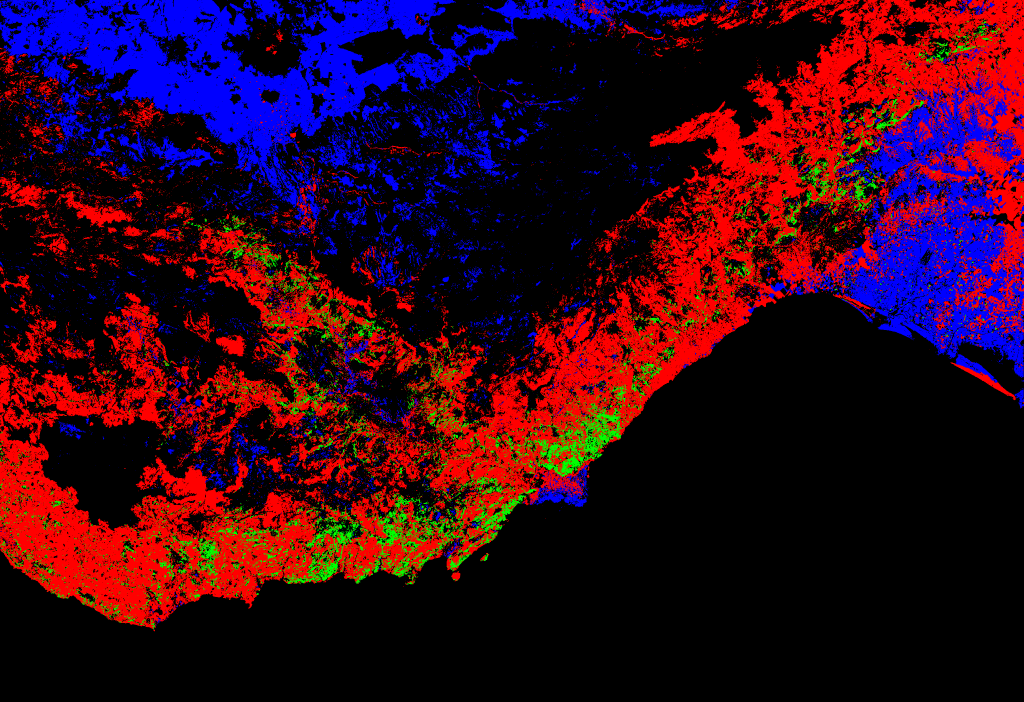
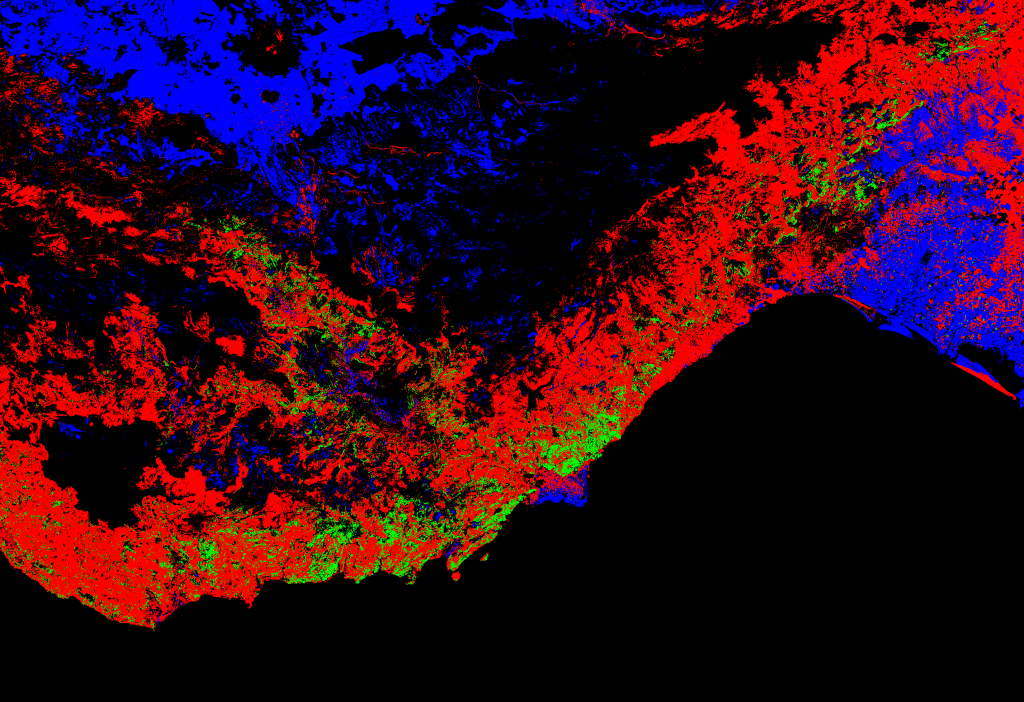
Ground colour from Sentinel-2 imagery; darker crowns, map edge, coastal shelf (work in progress)
Claude-Session: https://claude.ai/code/session_01RcwKvWC9jgLcENAuLPuhEE

Changed region(s): [[0.0, 0.0, 1.0, 0.8974], [0.5938, 0.2094, 0.625, 0.2393]]

diff --git a/src/terrain.js b/src/terrain.js
@@ -72,7 +72,7 @@ export function buildTerrain(heights0, dist, step = 1, low = false) {
   const normalMap = loader.load(`${root}terrain-normal${sfx}.jpg`);
   normalMap.anisotropy = 8;
   const mat = new THREE.MeshStandardMaterial({ map, normalMap, normalMapType: THREE.ObjectSpaceNormalMap, roughness: 0.96, metalness: 0 });
-  // close-range grain: the textures are ~90 m per texel, so add fine variation when zoomed in
+  // close-range grain: the textures are ~65 m per texel, so add fine variation when zoomed in
   mat.onBeforeCompile = (sh) => {
     sh.vertexShader = sh.vertexShader
       .replace('#include <common>', '#include <common>\nvarying vec3 vWp;')
@@ -96,6 +96,17 @@ export function buildTerrain(heights0, dist, step = 1, low = false) {
         float stone = smoothstep(0.62, 0.8, vn(vWp.xz*53.0 + 11.0));
         diffuseColor.rgb = mix(diffuseColor.rgb, diffuseColor.rgb*1.16 + 0.03, stone*(1.0 - canopy)*near*0.6);`);
   };
+  // earth-coloured wall round the edge of the map, from the surface down to the plinth
+  const edge = [];
+  for (let i = 0; i < w; i++) edge.push(i);
+  for (let j = 1; j < h; j++) edge.push(j * w + w - 1);
+  for (let i = w - 2; i >= 0; i--) edge.push((h - 1) * w + i);
+  for (let j = h - 2; j > 0; j--) edge.push(j * w);
+  const sp = [], si = [];
+  edge.forEach((k, n) => { sp.push(pos.getX(k), pos.getY(k), pos.getZ(k), pos.getX(k), -1.5, pos.getZ(k)); const a = n * 2, b = ((n + 1) % edge.length) * 2; si.push(a, b, a + 1, b, b + 1, a + 1); });
+  const skirtGeo = new THREE.BufferGeometry();
+  skirtGeo.setAttribute('position', new THREE.Float32BufferAttribute(sp, 3)); skirtGeo.setIndex(si); skirtGeo.computeVertexNormals();
+  const skirt = new THREE.Mesh(skirtGeo, new THREE.MeshStandardMaterial({ color: 0x6b5a45, roughness: 1, side: THREE.DoubleSide }));
   const land = new THREE.Mesh(geo, mat);
   land.receiveShadow = true;
 
@@ -106,16 +117,21 @@ export function buildTerrain(heights0, dist, step = 1, low = false) {
   );
   base.position.y = -3.9;
   const g = new THREE.Group();
-  g.add(land, base);
+  g.add(land, skirt, base);
   return { group: g, land };
 }
 
 export function buildSea(heights, dist) {
   const { w, h } = GRID;
   const data = new Uint8Array(w * h * 4);
+  // mean land height within ~4 km of each cell (two box passes): high beside mountains, near zero off plains
+  const R = 16, relief = new Float32Array(w * h), tmp = new Float32Array(w * h);
+  for (let j = 0; j < h; j++) { let s = 0; for (let i = -R; i < w; i++) { if (i + R < w) s += Math.max(0, heights[j * w + i + R]); if (i - R - 1 >= 0) s -= Math.max(0, heights[j * w + i - R - 1]); if (i >= 0) tmp[j * w + i] = s / (2 * R + 1); } }
+  for (let i = 0; i < w; i++) { let s = 0; for (let j = -R; j < h; j++) { if (j + R < h) s += tmp[(j + R) * w + i]; if (j - R - 1 >= 0) s -= tmp[(j - R - 1) * w + i]; if (j >= 0) relief[j * w + i] = s / (2 * R + 1); } }
   for (let i = 0; i < w * h; i++) {
     const m = heights[i];
-    data[i * 4] = m < 0.5 ? Math.min(255, (dist[i] / 14) * 255) : 0; // depth proxy: distance offshore
+    // depth proxy: distance offshore, over a shelf that is narrow below steep coasts and wide off the deltas
+    data[i * 4] = m < 0.5 ? Math.min(255, (dist[i] / (3.5 + 13 * Math.exp(-relief[i] / 70))) * 255) : 0;
     data[i * 4 + 1] = m >= 0.5 ? 255 : 0; // land mask
     data[i * 4 + 3] = 255;
   }
@@ -148,7 +164,7 @@ export function buildSea(heights, dist) {
         // sun glitter
         vec3 v = normalize(cameraPosition - vWorld);
         float gl = pow(max(0.0, wave(vWorld.xz*6.0+3.0)*wave(vWorld.zx*3.7-1.0)*0.5+0.5), 9.0) * (0.3+0.7*pow(1.0-v.y,2.0));
-        c += uSun * gl * 0.28 * (1.0 - smoothstep(8.0, 45.0, d)); // fades out before it can alias
+        c += uSun * gl * 0.12 * (1.0 - smoothstep(6.0, 30.0, d)); // fades out before it can alias
         // surf line breathing against the shore
         float shore = smoothstep(0.15, 0.6, land);
         float foam = smoothstep(0.55, 0.9, shore + 0.18*sin(uTime*1.4 + vWorld.x*1.3 + vWorld.z*1.7)) * (1.0-smoothstep(0.9,1.0,land));

diff --git a/src/main.js b/src/main.js
@@ -273,7 +273,8 @@ function buildTrees(cover) {
   const geos = treeGeometries(), group = new THREE.Group(), chunks = [];
   const material = new THREE.MeshStandardMaterial({ roughness: 1, flatShading: true, vertexColors: true });
   // hue, saturation, lightness per species (instance tint over the vertex tones)
-  const tint = { brutia: [0.27, 0.4, 0.22], nigra: [0.3, 0.38, 0.17], cedar: [0.36, 0.3, 0.2], fir: [0.38, 0.4, 0.14], olive: [0.2, 0.2, 0.33], carob: [0.27, 0.45, 0.2], juniper: [0.33, 0.25, 0.22], maquis: [0.25, 0.35, 0.24] };
+  // crowns are kept a little darker than the forest floor colour so woods read as mass, not sparkle
+  const tint = { brutia: [0.27, 0.42, 0.15], nigra: [0.3, 0.4, 0.12], cedar: [0.38, 0.32, 0.13], fir: [0.4, 0.4, 0.1], olive: [0.21, 0.2, 0.25], carob: [0.28, 0.45, 0.15], juniper: [0.33, 0.25, 0.16], maquis: [0.25, 0.35, 0.17] };
   const geoOf = { brutia: 'brutia', nigra: 'nigra', cedar: 'cedar', fir: 'fir', olive: 'olive', carob: 'olive', juniper: 'olive', maquis: 'olive' };
   const CH = 32, cx = Math.ceil(GRID.w / CH), cz = Math.ceil(GRID.h / CH); // chunks of 32 x 32 cells (~8 km)
   const dens = LOW ? 0.45 : 1; // trees per fully forested cell (~260 m)
@@ -286,7 +287,7 @@ function buildTrees(cover) {
     const add = (kind, x, z, y, s) => (list[kind] ||= []).push(x, y, z, s);
     for (let j = bz * CH; j < Math.min(GRID.h, (bz + 1) * CH); j++) for (let i = bx * CH; i < Math.min(GRID.w, (bx + 1) * CH); i++) {
       const k = (j * GRID.w + i) * 4, tree = cover[k] / 255, shrub = cover[k + 1] / 255, crop = cover[k + 2] / 255;
-      let n = tree * 2.2 * dens + shrub * 0.5 * dens + crop * 0.2 * dens;
+      let n = tree * 3 * dens + shrub * 0.4 * dens + crop * 0.15 * dens;
       for (; n > 0; n--) {
         if (n < 1 && rnd() > n) break;
         const x = (i + rnd() - 0.5) * cellW - WORLD.w / 2, z = (j + rnd() - 0.5) * cellD - WORLD.d / 2, h = sampleH(x, z);
@@ -295,10 +296,11 @@ function buildTrees(cover) {
         let kind;
         if (r < tree) { // forest, by altitude belt (with some overlap)
           const e = h + (rnd() - 0.5) * 300;
-          kind = e < 1000 ? (u < 0.9 ? 'brutia' : 'carob') : e < 1350 ? (u < 0.6 ? 'nigra' : 'brutia') : e < 2000 ? (u < 0.45 ? 'cedar' : u < 0.75 ? 'fir' : u < 0.9 ? 'nigra' : 'juniper') : 'juniper';
+          kind = h < 110 ? (u < 0.6 ? 'olive' : 'carob') // tree cover on the plains is orchard, not forest
+            : e < 1000 ? (u < 0.9 ? 'brutia' : 'carob') : e < 1350 ? (u < 0.6 ? 'nigra' : 'brutia') : e < 2000 ? (u < 0.45 ? 'cedar' : u < 0.75 ? 'fir' : u < 0.9 ? 'nigra' : 'juniper') : 'juniper';
         } else if (r < tree + shrub) kind = h < 900 ? 'maquis' : 'juniper';
         else kind = h < 500 ? (u < 0.7 ? 'olive' : 'carob') : 'olive';
-        const s = (kind === 'maquis' ? 0.45 : kind === 'juniper' ? 0.7 : 1) * (0.75 + rnd() * 0.5);
+        const s = (kind === 'maquis' ? 0.5 : kind === 'juniper' ? 0.8 : 1.25) * (0.75 + rnd() * 0.5);
         add(kind, x, z, metresToY(h) - 0.004, s);
       }
     }

diff --git a/src/i18n.js b/src/i18n.js
@@ -19,7 +19,7 @@ export const UI = {
     tTour: 'Guided tour (T)', tSound: 'Sound & narration (M)', tDusk: 'Golden hour (G)', tRoads: 'Roman roads (R)', tHome: 'Whole map (H)', tLang: 'Türkçe (L)', langBtn: 'TR', langIntro: 'Türkçe',
     prev: '‹ Prev', next: 'Next ›', close: 'Close', prevAria: 'Previous site', nextAria: 'Next site',
     today: 'today', listen: '♪ Listen', lookFor: 'Look for', howWeKnow: 'How we know', sources: 'Sources', openMap: 'open map',
-    legend: 'Terrain: Copernicus 30 m DEM, ×2 vertical', legendLong: '; ground cover and forests from ESA WorldCover (towns and dams removed). Monuments are stylised miniatures, not to scale. Roads are schematic',
+    legend: 'Terrain: Copernicus 30 m DEM, ×2 vertical', legendLong: '; ground from Sentinel-2 imagery (EOX), forests from ESA WorldCover; towns and dams removed. Monuments are stylised miniatures, not to scale. Roads are schematic',
     north: 'N', northTitle: 'North', sitesAria: 'Sites', controlsAria: 'Map controls', canvasAria: '3D map of Roman-era Mersin province',
     noWebgl: 'This map needs WebGL, which this browser or device could not start.', lost: 'The 3D view was interrupted — reload the page to continue.', loadFail: 'Could not load the map: ',
     docTitle: 'Roman Mersin — a 3D map of ancient Cilicia',
@@ -36,7 +36,7 @@ export const UI = {
     tTour: 'Rehberli tur (T)', tSound: 'Ses ve anlatım (M)', tDusk: 'Gün batımı ışığı (G)', tRoads: 'Roma yolları (R)', tHome: 'Tüm harita (H)', tLang: 'English (L)', langBtn: 'EN', langIntro: 'English',
     prev: '‹ Önceki', next: 'Sonraki ›', close: 'Kapat', prevAria: 'Önceki yer', nextAria: 'Sonraki yer',
     today: 'bugün', listen: '♪ Dinle', lookFor: 'Görülecekler', howWeKnow: 'Nereden biliyoruz', sources: 'Kaynaklar', openMap: 'haritada aç',
-    legend: 'Arazi: Copernicus 30 m yükselti modeli, düşeyde ×2', legendLong: '; bitki örtüsü ve ormanlar ESA WorldCover verisinden (kentler ve barajlar çıkarıldı). Yapılar ölçeksiz, stilize minyatürlerdir. Yollar şematiktir',
+    legend: 'Arazi: Copernicus 30 m yükselti modeli, düşeyde ×2', legendLong: '; zemin Sentinel-2 görüntülerinden (EOX), ormanlar ESA WorldCover verisinden; kentler ve barajlar çıkarıldı. Yapılar ölçeksiz, stilize minyatürlerdir. Yollar şematiktir',
     north: 'K', northTitle: 'Kuzey', sitesAria: 'Yerler', controlsAria: 'Harita denetimleri', canvasAria: 'Roma Dönemi Mersin ilinin 3B haritası',
     noWebgl: 'Bu harita WebGL gerektirir; tarayıcınız ya da cihazınız WebGL’i başlatamadı.', lost: '3B görünüm kesildi — devam etmek için sayfayı yenileyin.', loadFail: 'Harita yüklenemedi: ',
     docTitle: 'Roma Dönemi Mersin — antik Kilikya’nın 3B haritası',

diff --git a/index.html b/index.html
@@ -45,7 +45,7 @@
   <div id="caption" hidden></div>
 
   <footer id="legend">
-    <span id="legend-text">Terrain: Copernicus 30 m DEM, ×2 vertical<span class="wide">; ground cover and forests from ESA WorldCover (towns and dams removed). Monuments are stylised miniatures, not to scale. Roads are schematic</span>.</span>
+    <span id="legend-text">Terrain: Copernicus 30 m DEM, ×2 vertical<span class="wide">; ground from Sentinel-2 imagery (EOX), forests from ESA WorldCover; towns and dams removed. Monuments are stylised miniatures, not to scale. Roads are schematic</span>.</span>
     <a id="legend-src" href="https://github.com/tayfun/roman-mersin-threejs/blob/main/SOURCES.md" target="_blank" rel="noopener">Sources</a>
   </footer>
 

diff --git a/tools/build_terrain_data.py b/tools/build_terrain_data.py
@@ -7,17 +7,19 @@ Inputs, read straight from their public cloud-optimised GeoTIFFs (only the overv
     provided under COPERNICUS by the European Union and ESA.
   * ESA WorldCover 10 m 2021 v200, (c) ESA WorldCover project / Contains modified Copernicus Sentinel data (2021),
     CC BY 4.0.
+  * Sentinel-2 cloudless 2017 by EOX IT Services GmbH (https://s2maps.eu), contains modified Copernicus
+    Sentinel data 2017, CC BY 4.0.
 
 Outputs in public/:
   heightmap.png          GRID_W x GRID_H, 16-bit elevation (m + 3000) in R (high byte) and G (low byte)
   terrain-normal.jpg     TEX_W x TEX_H world-space normals (x east, y up, z south) at the map's vertical exaggeration
-  terrain-color.jpg      TEX_W x TEX_H ground colour from land cover, elevation, slope and aspect (no baked lighting)
+  terrain-color.jpg      TEX_W x TEX_H ground colour from Sentinel-2 imagery with modern features painted out
   landcover.png          GRID_W x GRID_H fractions: R tree cover, G shrubland, B cropland (drives the 3D trees)
   (-lo variants of the two jpgs at half size for ?q=low)
 
-Modern land use is translated back towards antiquity: built-up land and dam reservoirs are repainted as the
-farmland, scrub or valley floor around them. Everything else (forest belts, maquis, farmed plains, bare limestone
-karst, the Göksu delta lagoons) follows the satellite classification.
+Modern land use is translated back towards antiquity: built-up land, dam reservoirs and greenhouse sheeting are
+painted over with the colour of the farmland and scrub around them. Everything else is as the satellites see it.
+Remote reads are cached in tools/.cache (delete it to refetch).
 """
 import os, sys, math
 import numpy as np
@@ -33,7 +35,7 @@ KM_LAT = 111.2
 KM_LON = KM_LAT * math.cos(math.radians((N + S) / 2))
 ASPECT = (E - W) * KM_LON / ((N - S) * KM_LAT)
 GRID_W = 1024; GRID_H = round(GRID_W / ASPECT)
-TEX_W = 3072; TEX_H = round(TEX_W / ASPECT)
+TEX_W = 4096; TEX_H = round(TEX_W / ASPECT)
 VEX = 2.0
 os.environ.setdefault('GDAL_DISABLE_READDIR_ON_OPEN', 'EMPTY_DIR')
 os.environ.setdefault('CPL_VSIL_CURL_ALLOWED_EXTENSIONS', '.tif')
@@ -51,6 +53,12 @@ def mosaic(urls, w, h, resampling, nodata):
     for s in srcs: s.close()
     a = arr[0]
     return a[:h, :w]
+
+
+def cached(name, fn):
+    p = os.path.join(os.environ.get('S2_CACHE', os.path.join(ROOT, 'tools', '.cache')), name + '.npy')
+    if os.path.exists(p): return np.load(p)
+    a = fn(); os.makedirs(os.path.dirname(p), exist_ok=True); np.save(p, a); return a
 
 
 def dem(w, h):
@@ -77,6 +85,46 @@ def worldcover(w, h):
     urls = [f'/vsicurl/https://esa-worldcover.s3.eu-central-1.amazonaws.com/v200/2021/map/ESA_WorldCover_10m_2021_v200_{t}_Map.tif'
             for t in ('N33E030', 'N33E033', 'N36E030', 'N36E033')]
     return mosaic(urls, w, h, Resampling.mode, 0)
+
+
+def satellite(w, h, cache):
+    """Sentinel-2 cloudless 2017 (EOX, CC BY 4.0) web-mercator tiles, resampled to the map's lon/lat grid"""
+    import urllib.request
+    Z = 11
+    tx = lambda lon: (lon + 180) / 360 * 2 ** Z
+    ty = lambda lat: (1 - np.log(np.tan(np.radians(lat)) + 1 / np.cos(np.radians(lat))) / math.pi) / 2 * 2 ** Z
+    x0, x1, y0, y1 = int(tx(W)), int(tx(E)), int(ty(N)), int(ty(S))
+    os.makedirs(cache, exist_ok=True)
+    mos = np.zeros(((y1 - y0 + 1) * 256, (x1 - x0 + 1) * 256, 3), np.uint8)
+    for x in range(x0, x1 + 1):
+        for y in range(y0, y1 + 1):
+            p = os.path.join(cache, f's2_{Z}_{x}_{y}.jpg')
+            if not os.path.exists(p):
+                url = f'https://tiles.maps.eox.at/wmts/1.0.0/s2cloudless-2017_3857/default/g/{Z}/{y}/{x}.jpg'
+                req = urllib.request.Request(url, headers={'User-Agent': 'terrain-build/1.0'})
+                with urllib.request.urlopen(req, timeout=60) as r, open(p, 'wb') as f: f.write(r.read())
+            mos[(y - y0) * 256:(y - y0 + 1) * 256, (x - x0) * 256:(x - x0 + 1) * 256] = np.asarray(Image.open(p).convert('RGB'))
+    px = (tx(W + (np.arange(w) + 0.5) / w * (E - W)) - x0) * 256
+    py = (ty(N - (np.arange(h) + 0.5) / h * (N - S)) - y0) * 256
+    xi = np.clip(px.astype(int), 0, mos.shape[1] - 2); yi = np.clip(py.astype(int), 0, mos.shape[0] - 2)
+    fx = (px - xi)[None, :, None]; fy = (py - yi)[:, None, None]
+    m = mos.astype(np.float32) / 255
+    a = m[yi][:, xi]; b = m[yi][:, xi + 1]; c = m[yi + 1][:, xi]; d = m[yi + 1][:, xi + 1]
+    return a * (1 - fx) * (1 - fy) + b * fx * (1 - fy) + c * (1 - fx) * fy + d * fx * fy
+
+
+def infill(img, bad, r=6, iters=12):
+    """replace bad pixels by a blur of the good ones around them, growing inward"""
+    img = img.copy(); bad = bad.copy()
+    for _ in range(iters):
+        if not bad.any(): break
+        g = (~bad).astype(np.float32); wsum = box(g, r)
+        ok = bad & (wsum > 0.08)
+        for k in range(3):
+            v = box(img[..., k] * g, r) / np.maximum(wsum, 1e-6)
+            img[..., k][ok] = v[ok]
+        bad &= ~ok
+    return img
 
 
 def box(a, r):
@@ -111,10 +159,10 @@ def noise(h, w, scale, seed):
 
 def main():
     print('DEM', GRID_W, 'x', GRID_H, 'and', TEX_W, 'x', TEX_H)
-    hg = dem(GRID_W, GRID_H)
-    ht = dem(TEX_W, TEX_H)
+    hg = cached(f'dem{GRID_W}', lambda: dem(GRID_W, GRID_H))
+    ht = cached(f'dem{TEX_W}', lambda: dem(TEX_W, TEX_H))
     print('WorldCover')
-    lc = worldcover(TEX_W, TEX_H)
+    lc = cached(f'wc{TEX_W}', lambda: worldcover(TEX_W, TEX_H))
     # Land and water come from the satellite classification, not from "below half a metre": the delta plains
     # lie that low and would otherwise flood. Water here is sea or a coastal lagoon; inland lakes are dams.
     f = TEX_W // GRID_W
@@ -131,10 +179,13 @@ def main():
 
     # world-space normals at the map's exaggeration; 1 texel = cell metres
     cx = (E - W) * KM_LON * 1000 / TEX_W; cz = (N - S) * KM_LAT * 1000 / TEX_H
-    hs = box(ht, 1)
+    hs = ht
     dx = (np.roll(hs, -1, 1) - np.roll(hs, 1, 1)) / (2 * cx) * VEX
     dz = (np.roll(hs, -1, 0) - np.roll(hs, 1, 0)) / (2 * cz) * VEX
     dx[:, [0, -1]] = 0; dz[[0, -1], :] = 0
+    # alluvial plains are flat: the DEM's field-and-rooftop noise there would otherwise shade as lumps
+    calm = np.clip((box(np.hypot(dx, dz) / VEX, 4) - 0.012) / 0.05, 0.15, 1)
+    dx *= calm; dz *= calm
     nrm = np.stack([-dx, np.ones_like(dx), -dz], -1); nrm /= np.linalg.norm(nrm, axis=-1, keepdims=True)
     sea = ht <= 0.5
     nrm[sea] = (0, 1, 0)
@@ -146,45 +197,43 @@ def main():
     print('  classes', {int(c): round(float((lc[land] == c).mean()), 3) for c in np.unique(lc[land])})
     # back to antiquity: towns, reservoirs and no-data on land become the surrounding cover;
     # low-lying water within reach of the coast (the Göksu delta lagoons) is kept as water
-    bad = land & ((lc == 50) | (lc == 0) | (lc == 80))
+    built = lc == 50; lake = (lc == 80) | (lc == 0)
+    bad = land & (built | lake)
     lc = fill_classes(lc, bad)
     lc[sea] = 0
 
-    # slope (unexaggerated) and a smoothed elevation for colour belts
+    # Ground colour: Sentinel-2 cloudless imagery, with what is modern taken out. Towns, reservoirs and
+    # greenhouse sheeting (very bright, colourless patches in farmland) are filled in from their surroundings.
+    print('Sentinel-2')
+    sat = satellite(TEX_W, TEX_H, os.environ.get('S2_CACHE', os.path.join(ROOT, 'tools', '.cache')))
+    lum = sat.mean(-1); chroma = sat.max(-1) - sat.min(-1)
+    glass = (lc == 40) & (lum > 0.5) & (chroma < 0.09) & (ht < 400)
+    modern = built | lake | (box(glass.astype(np.float32), 1) > 0.2)
+    modern = land & (box(modern.astype(np.float32), 2) > 0.1)  # include the grey fringe of suburbs and roads
+    # paint them with the colour of the farmland, pasture and scrub around them (not forest, not sea),
+    # then give the smooth fill back the grain of fields
+    src = (land & ~modern & np.isin(lc, (20, 30, 40))).astype(np.float32)
+    col = sat.copy()
+    for R in (24, 80):
+        wsum = box(src, R); todo = modern & (wsum > 0.02) if R == 24 else modern & ~done
+        for k in range(3): col[..., k][todo] = (box(sat[..., k] * src, R) / np.maximum(wsum, 1e-6))[todo]
+        done = modern & (wsum > 0.02) if R == 24 else modern
+    grain = (noise(TEX_H, TEX_W, 4, 21) - 0.5) * 0.22 + (noise(TEX_H, TEX_W, 14, 22) - 0.5) * 0.16
+    col[modern] *= (1 + grain[modern])[:, None]
+    # grade: lift the mosaic's dark tones a little and warm it towards a summer afternoon
+    col = np.clip(col, 0, 1) ** 0.9
+    g = col.mean(-1, keepdims=True); col = np.clip(g + (col - g) * 0.82, 0, 1)  # the summer mosaic is very orange
+    col *= np.array([0.97, 1.0, 0.98], np.float32)
     slope = np.hypot(dx, dz) / VEX
-    hsm = box(ht, 3)
-    n1, n2, n3 = noise(TEX_H, TEX_W, 64, 1), noise(TEX_H, TEX_W, 12, 2), noise(TEX_H, TEX_W, 3, 3)
-    col = np.zeros((TEX_H, TEX_W, 3), np.float32)
     def C(hexv): return np.array([(hexv >> 16) & 255, (hexv >> 8) & 255, hexv & 255], np.float32) / 255
-    def put(mask, a, b, t):
-        t = np.clip(t, 0, 1)[mask][:, None]
-        col[mask] = C(a) * (1 - t) + C(b) * t
-    hi = np.clip((hsm - 300) / 1500, 0, 1)  # 0 lowland .. 1 high Taurus
-    # 10 tree cover: Turkish red pine low, darker cedar / fir / juniper higher
-    put(lc == 10, 0x4b6a35, 0x36503a, hi * 0.9 + (n2 - 0.5) * 0.3)
-    # 20 shrubland: maquis on the coast, greyer garrigue / phrygana inland and higher
-    put(lc == 20, 0x7b8a4e, 0x99956a, hi + (n2 - 0.5) * 0.5)
-    # 30 grassland: dry summer pasture, alpine meadows high up
-    put(lc == 30, 0xb9a676, 0xa89c7c, hi + (n2 - 0.5) * 0.25)
-    # 40 cropland: patchwork of green and harvested fields on the plains
-    put(lc == 40, 0x96a35a, 0xc5b277, n3 * 0.9 + n2 * 0.3 - 0.1)
-    # 60 bare / sparse: limestone karst, pale screes
-    put(lc == 60, 0xc9bc98, 0xb8b2a2, hi + (n2 - 0.5) * 0.4)
-    put(lc == 70, 0xf2f1ec, 0xf2f1ec, n2)
-    put(lc == 80, 0x4f8f93, 0x5f9e98, n2)  # delta lagoons
-    put(lc == 90, 0x6e8c58, 0x7f9a60, n2)
-    put(lc == 100, 0x9d9c84, 0x9d9c84, n2)
-    # steep ground shows rock through any cover; sand along the shore
-    rock = np.clip((slope - 0.45) / 0.5, 0, 0.65)[..., None]
-    col = col * (1 - rock) + C(0xa89a80) * rock
-    shore = land & (ht < 4) & (lc != 80) & (lc != 10)
-    near_sea = box(sea.astype(np.float32), 2) > 0.02
-    col[shore & near_sea] = col[shore & near_sea] * 0.3 + C(0xd8c99a) * 0.7
-    # broad tonal variation so large areas are not flat swatches
-    col *= (0.96 + 0.08 * n1)[..., None] * (0.95 + 0.1 * n3)[..., None]
+    # permanent snow patches on the highest, gentlest ground of the Bolkar range
+    snow = np.clip((box(ht, 2) - 2950) / 350, 0, 1) * np.clip(1.2 - slope * 1.6, 0, 1) * (noise(TEX_H, TEX_W, 6, 9) > 0.45)
+    col = col * (1 - snow[..., None] * 0.8) + C(0xf4f4f0) * snow[..., None] * 0.8
+    shore = land & (ht < 3) & (box(sea.astype(np.float32), 2) > 0.05)
+    col[shore] = col[shore] * 0.45 + C(0xd9cba0) * 0.55
     col[sea] = C(0xcdbf8f)  # under the water plane: pale sand shelf
-    cimg = Image.fromarray(np.clip(col * 255, 0, 255).astype(np.uint8)).filter(ImageFilter.GaussianBlur(0.6))
-    cimg.save(os.path.join(OUT, 'terrain-color.jpg'), quality=86)
+    cimg = Image.fromarray(np.clip(col * 255, 0, 255).astype(np.uint8))
+    cimg.save(os.path.join(OUT, 'terrain-color.jpg'), quality=84)
     cimg.resize((TEX_W // 2, TEX_H // 2), Image.LANCZOS).save(os.path.join(OUT, 'terrain-color-lo.jpg'), quality=85)
 
     # cover fractions per mesh cell for the instanced trees (3 x 3 texels per cell)

diff --git a/SOURCES.md b/SOURCES.md
@@ -106,9 +106,10 @@ Alahan monastery (late antique), Mezgitkale and the Demircili/Imbriogon tombs, N
 - **Discrepancy:** Cleopatra's Gate is popularly Roman but its present fabric is attributed to the Byzantine or Abbasid period and was heavily restored in 1994. Donuktaş: 2nd-c. AD Roman temple (excavators; possibly under Commodus) vs. older "tomb of Sardanapalus" tradition.
 
 ## Map data
-- **Elevation:** Copernicus GLO-30 Digital Elevation Model (30 m) — https://registry.opendata.aws/copernicus-dem/ — © DLR e.V. 2010–2014 and © Airbus Defence and Space GmbH 2014–2018, provided under COPERNICUS by the European Union and ESA; all rights reserved. `tools/build_terrain_data.py` averages it to a 1024 × 702 mesh grid (~260 m) and to a 3072 × 2107 map of surface normals (~87 m) that carries the finer ridges and valleys in the lighting. Vertical exaggeration ×2. A terrace about 1.3 km across is levelled under each site so its model can sit at ground level.
-- **Ground cover and trees:** ESA WorldCover 10 m 2021 v200 — https://esa-worldcover.org — © ESA WorldCover project 2021 / Contains modified Copernicus Sentinel data (2021) processed by ESA WorldCover consortium, CC BY 4.0. The ground colour follows its classes (tree cover, shrubland, grassland, cropland, bare/sparse, wetland), tinted by elevation and slope; the 3D trees are placed where it maps tree cover (28 % of the land in this frame), scrub or cropland. Species are assigned by the usual altitude belts of the Cilician Taurus (Turkish red pine low, black pine, then Taurus cedar and Cilician fir, juniper to the treeline; olive and carob among lowland fields) — a rule of thumb, not a forest inventory.
-- **Back-dating the land cover:** this is today's vegetation, not a reconstruction of the Roman one. Built-up areas and dam reservoirs are repainted as the cover around them; the Göksu delta lagoons are kept. Modern plantations, cleared forest and the present coastline are not corrected.
+- **Elevation:** Copernicus GLO-30 Digital Elevation Model (30 m) — https://registry.opendata.aws/copernicus-dem/ — © DLR e.V. 2010–2014 and © Airbus Defence and Space GmbH 2014–2018, provided under COPERNICUS by the European Union and ESA; all rights reserved. `tools/build_terrain_data.py` averages it to a 1024 × 702 mesh grid (~260 m) and to a 4096 × 2809 map of surface normals (~65 m) that carries the finer ridges and valleys in the lighting. Vertical exaggeration ×2. A terrace about 1.3 km across is levelled under each site so its model can sit at ground level.
+- **Ground colour:** Sentinel-2 cloudless 2017 — https://s2maps.eu by EOX IT Services GmbH (Contains modified Copernicus Sentinel data 2017), CC BY 4.0. Zoom-11 tiles resampled to a 4096 × 2809 colour map (~65 m), lightly desaturated. No lighting is added to it beyond what the summer mosaic already contains.
+- **Land cover and trees:** ESA WorldCover 10 m 2021 v200 — https://esa-worldcover.org — © ESA WorldCover project 2021 / Contains modified Copernicus Sentinel data (2021) processed by ESA WorldCover consortium, CC BY 4.0. It supplies the land/water boundary (the delta plains lie too low for the DEM to separate from the sea) and the placement of the 3D trees: where it maps tree cover (28 % of the land in this frame), shrubland or cropland. Species are assigned by the usual altitude belts of the Cilician Taurus (Turkish red pine low, black pine, then Taurus cedar and Cilician fir, juniper to the treeline; olive and carob among lowland fields and for tree cover on the plains) — a rule of thumb, not a forest inventory.
+- **Back-dating:** this is today's landscape, not a reconstruction of the Roman one. Built-up areas, dam reservoirs and greenhouse sheeting are painted over with the colour of the farmland and scrub around them; the Göksu and Tarsus delta lagoons are kept. Modern field patterns, plantations, cleared forest and the present coastline are not corrected.
 
 - **Rivers** (Calycadnus/Göksu, Cydnus/Berdan, Lamos/Limonlu) are traced by `tools/trace_rivers.py` as least-elevation paths down the DEM's valley floors from a point on each river, through the ancient city on it (Seleucia, Tarsus), to the sea. They follow the real valleys at ~260 m resolution but are not surveyed centrelines, and the lower Göksu ends at the delta lagoon.
 - **Roman roads** are schematic: splines through attested stations (Anemurium – Kelenderis – Seleucia – Corycus – Elaiussa – Soli – Tarsus; Seleucia – Diocaesarea; Tarsus – Sağlıklı – Cilician Gates). They show connections, not surveyed alignments.

diff --git a/README.md b/README.md
@@ -15,7 +15,7 @@ npm run build    # static site in dist/
 - Add `?q=low` to the URL for a lighter render (slow devices automatically drop shadows and retina resolution).
 
 ## How it is built
-- `public/heightmap.png`, `terrain-normal.jpg`, `terrain-color.jpg`, `landcover.png` — terrain built from open data by `tools/build_terrain_data.py` (`pip install rasterio numpy pillow`): elevation from the Copernicus 30 m DEM, ground colour and tree placement from ESA WorldCover 2021 land cover. See SOURCES.md.
+- `public/heightmap.png`, `terrain-normal.jpg`, `terrain-color.jpg`, `landcover.png` — terrain built from open data by `tools/build_terrain_data.py` (`pip install rasterio numpy pillow`): elevation from the Copernicus 30 m DEM, ground colour from Sentinel-2 cloudless imagery, land/water and tree placement from ESA WorldCover 2021. See SOURCES.md.
 - `src/terrain.js` — terrain mesh, hypsometric colouring, animated sea.
 - `src/monuments/` — one procedural diorama per site (`<site>.js`), built from its standing remains with the shared modelling kit in `kit.js` (textured masonry, columns, theatres, vaults, rock faces, sculpted terrain bases).
 - `preview.html` — dev-only page that renders one diorama on its own: `npm run dev`, then `/preview.html?m=soli&a=20&e=30&d=3` (`tools/model_shots.mjs` captures a set of views).
